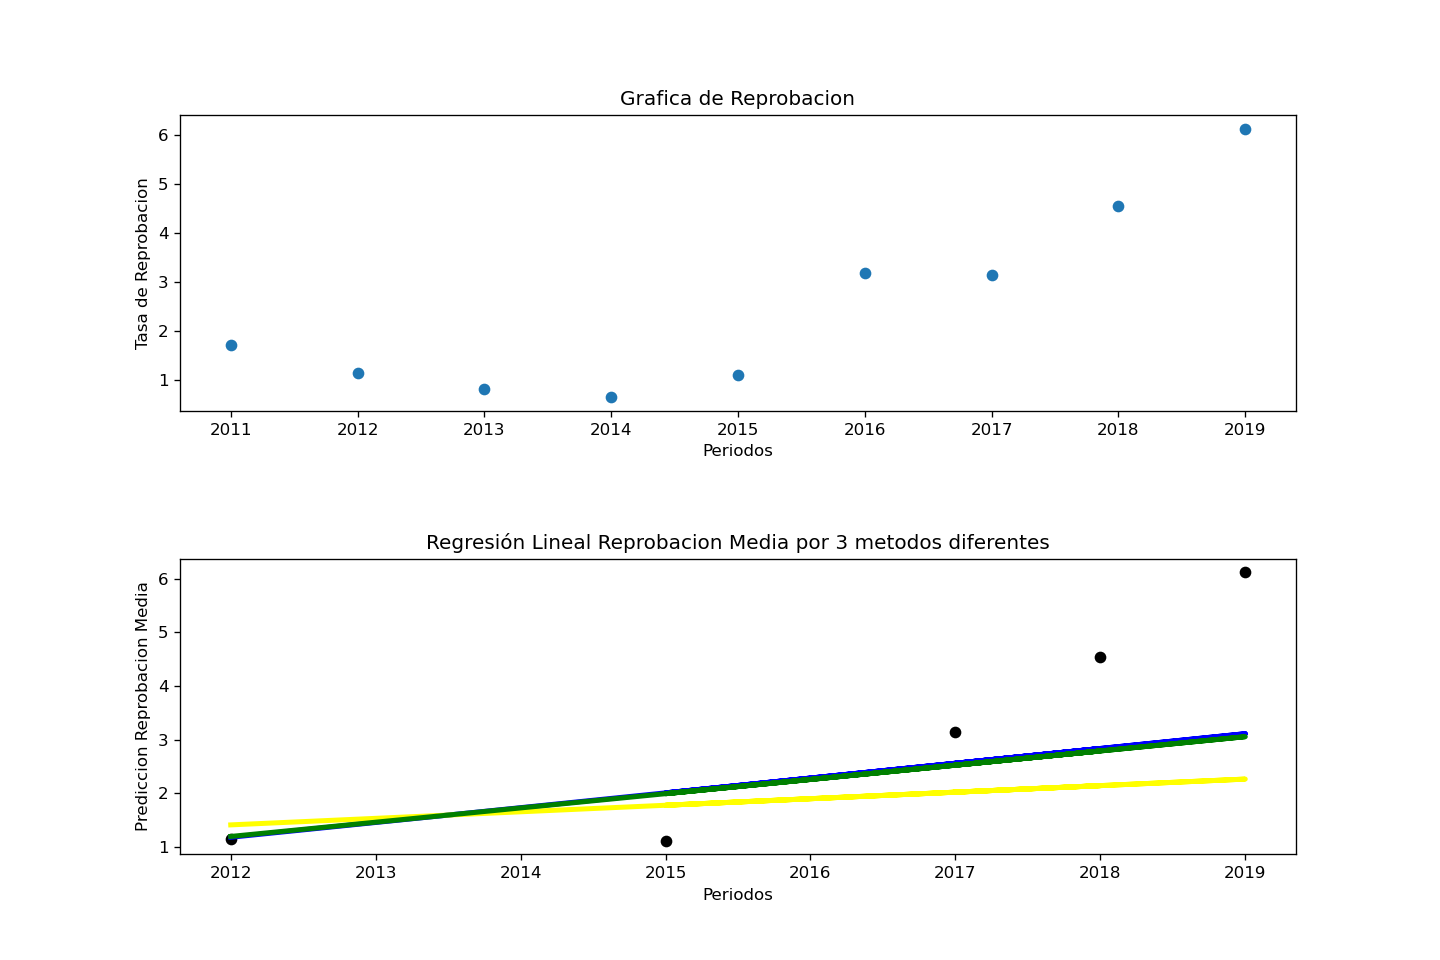
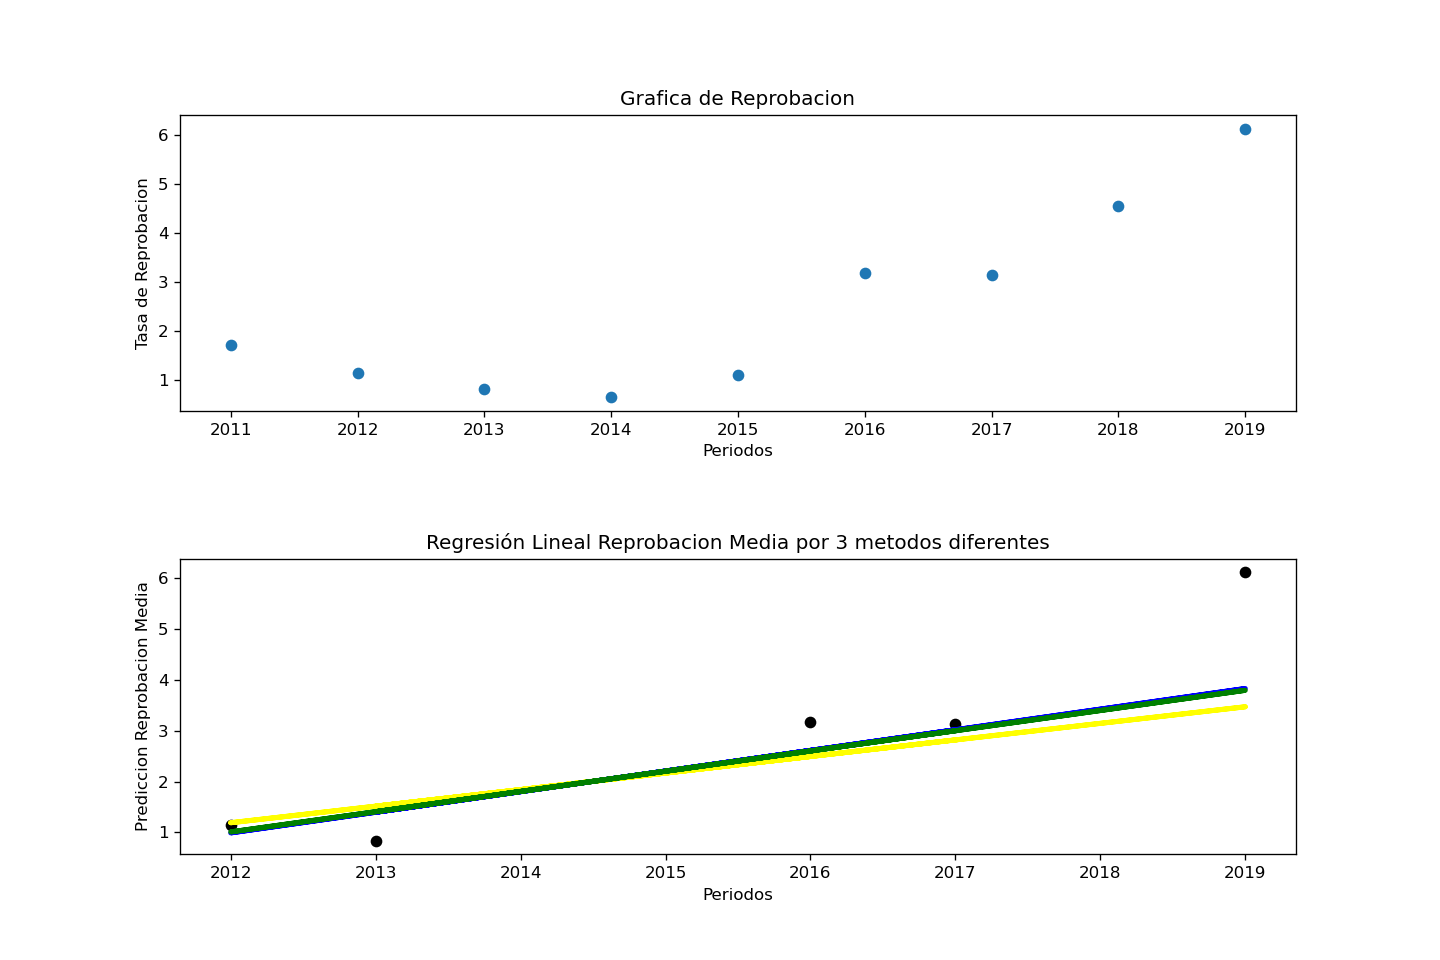
updated

Changed region(s): [[0.1562, 0.7188, 0.875, 0.875]]

diff --git a/src/Proyecciones.py b/src/Proyecciones.py
@@ -4,9 +4,19 @@ from sklearn.model_selection import train_test_split
 from sklearn.linear_model import LinearRegression,Lasso, Ridge
 import pandas as pd
 from sklearn.metrics import mean_squared_error
-from numpy import savetxt
+from numpy import savetxt, loadtxt
 
+def cargar_datos_reporbacion():
+    M = loadtxt('Modelos/modelo_r_reprobacion_2.csv', delimiter=',')
+    return M
 
+def cargar_datos_desercion():
+    M = loadtxt('Modelos/modelo_r_desercion_2.csv', delimiter=',')
+    return M
+
+def cargar_datos_repitencia():
+    M = loadtxt('Modelos/modelo_r_repitencia_2.csv', delimiter=',')
+    return M
 
 def proyeccion_reprobacion():
     datos=pd.read_csv('Datos/Datos_MEN.csv',header=0)
@@ -305,12 +315,12 @@ def proyeccion_repitencia():
     ax2.set_ylabel('Prediccion Repitencia Media')
     fig3.savefig("static/file/proyeccion_repitencia_2.png")
     # plt.show()
-    m_coe2 = m_coe
-    l_coe2 = l_coe
-    r_coe2 = r_coe
+    m_coe2 = m_coe[0]
+    l_coe2 = l_coe[0]
+    r_coe2 = r_coe[0]
 
     modelo_repitencia = [m_coe2,m_mse,m_ve,l_coe2,l_mse,l_ve,r_coe2,r_mse,r_ve]
-    savetxt('Modelos/modelo_r_repitencia_2.csv', modelo_repitencia,fmt="%s" , delimiter=',')
+    savetxt('Modelos/modelo_r_repitencia_2.csv', modelo_repitencia,fmt="%s", delimiter=',')
 
     return m_coe,m_mse,m_ve,l_coe,l_mse,l_ve,r_coe,r_mse,r_ve
     

diff --git a/src/index.py b/src/index.py
@@ -38,16 +38,21 @@ def test():
 
 @app.route('/reprobacion')
 def reprobacion():
-   return render_template('P_Reprobacion.html')
+    M = pn.cargar_datos_reporbacion()
+    return render_template('P_Reprobacion.html',m_coe=M[0],m_mse=M[1],m_ve=M[2],l_coe=M[3],l_mse=M[4],l_ve=M[5],r_coe=M[6],r_mse=M[7],r_ve=M[8])
    
 
 @app.route('/desercion')
 def desercion():
-   return render_template('P_Desercion.html')
+    M = pn.cargar_datos_desercion()
+    return render_template('P_Desercion.html',m_coe=M[0],m_mse=M[1],m_ve=M[2],l_coe=M[3],l_mse=M[4],l_ve=M[5],r_coe=M[6],r_mse=M[7],r_ve=M[8])
+   
 
 @app.route('/repitencia')
 def repitencia():
-   return render_template('P_Repitencia.html')
+    M = pn.cargar_datos_repitencia()
+    return render_template('P_Repitencia.html',m_coe=M[0],m_mse=M[1],m_ve=M[2],l_coe=M[3],l_mse=M[4],l_ve=M[5],r_coe=M[6],r_mse=M[7],r_ve=M[8])
+   
 
 @app.route("/run2", methods=['GET'])
 def run_pro_reprobacion():
